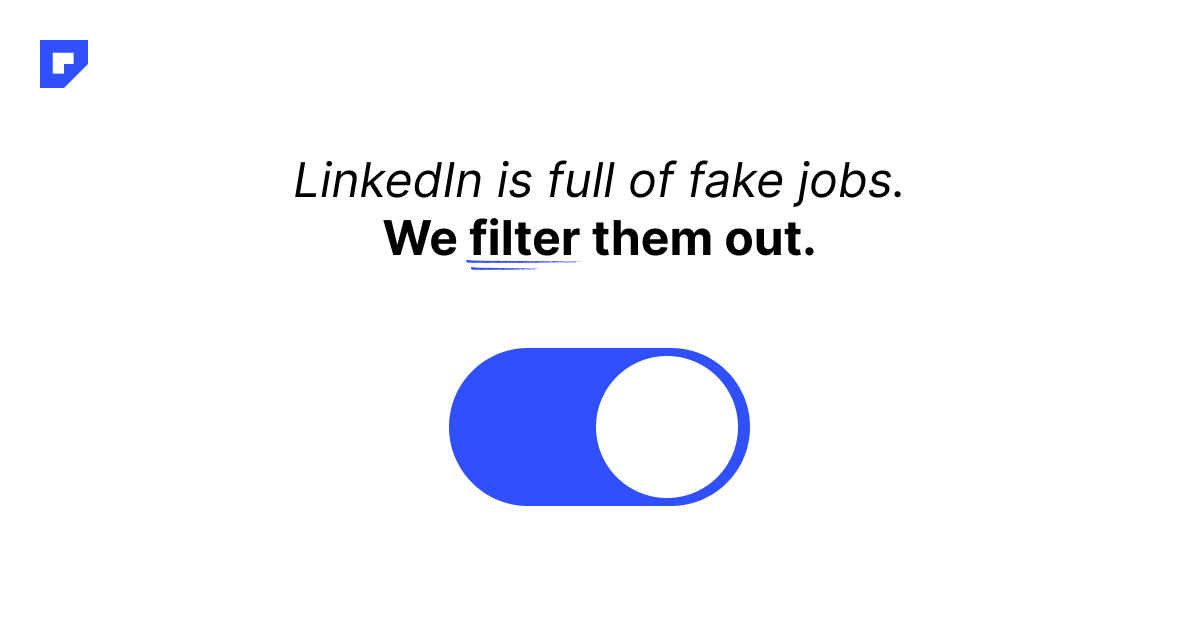
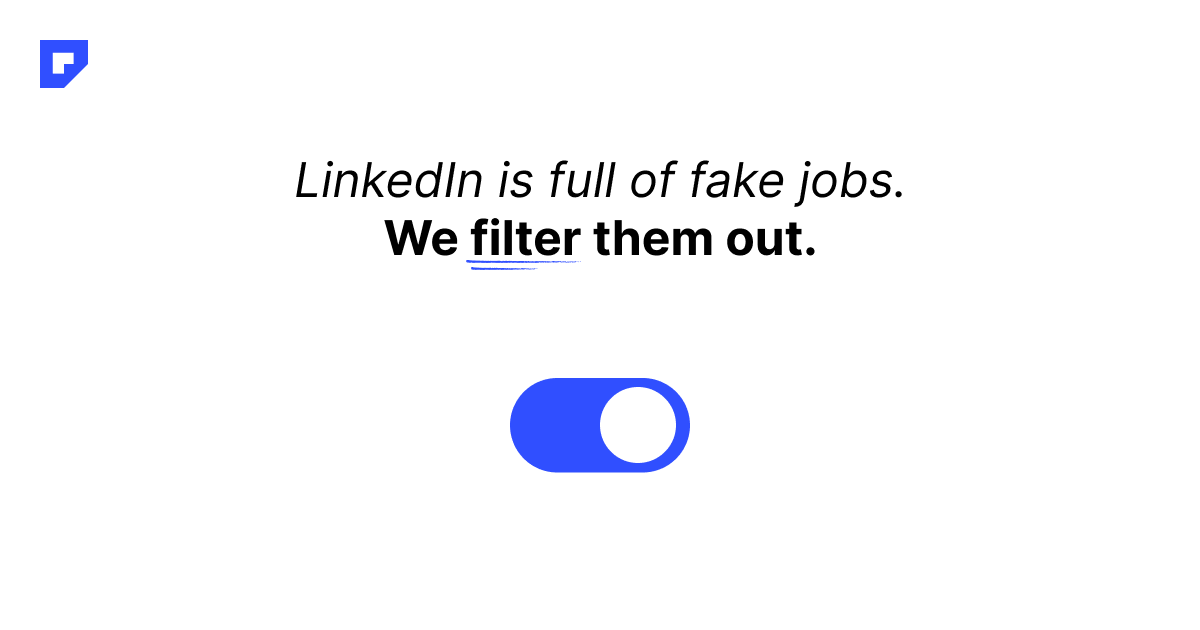
feat: add ReportPage component and update Open Graph image

Changed region(s): [[0.37, 0.5429, 0.6475, 0.8143], [0.2467, 0.2413, 0.74, 0.3317], [0.3083, 0.3317, 0.6783, 0.4222]]

diff --git a/app/report/page.tsx b/app/report/page.tsx
@@ -1,0 +1,7 @@
+export default function ReportPage() {
+    return (
+        <div>
+            <h1>Report</h1>
+        </div>
+    );
+}
